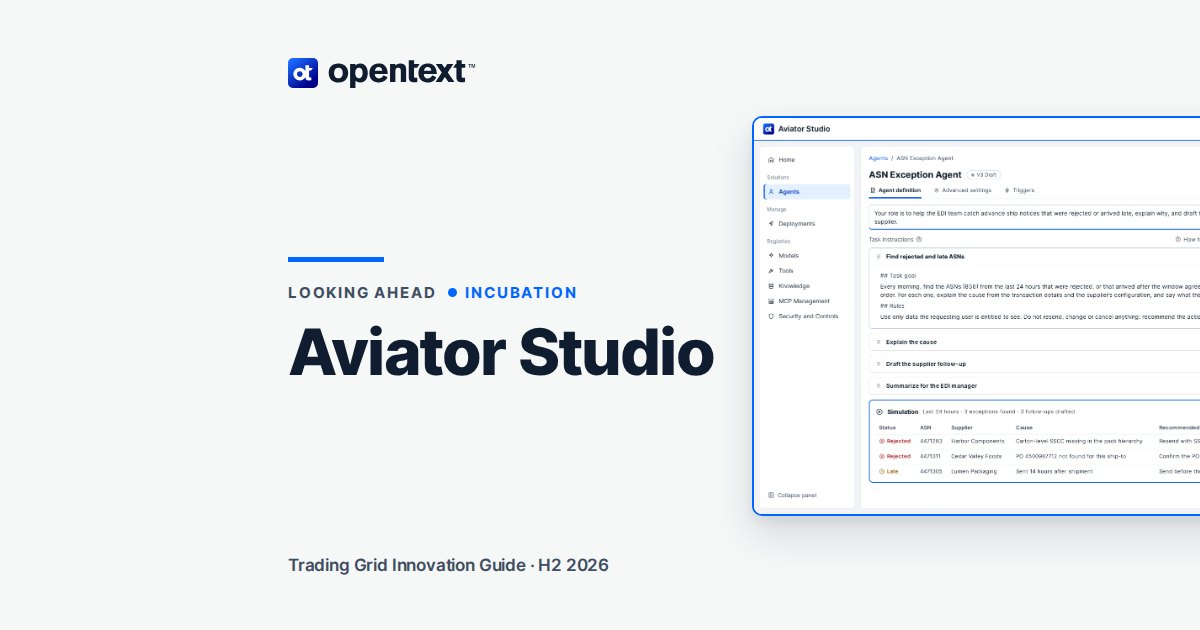
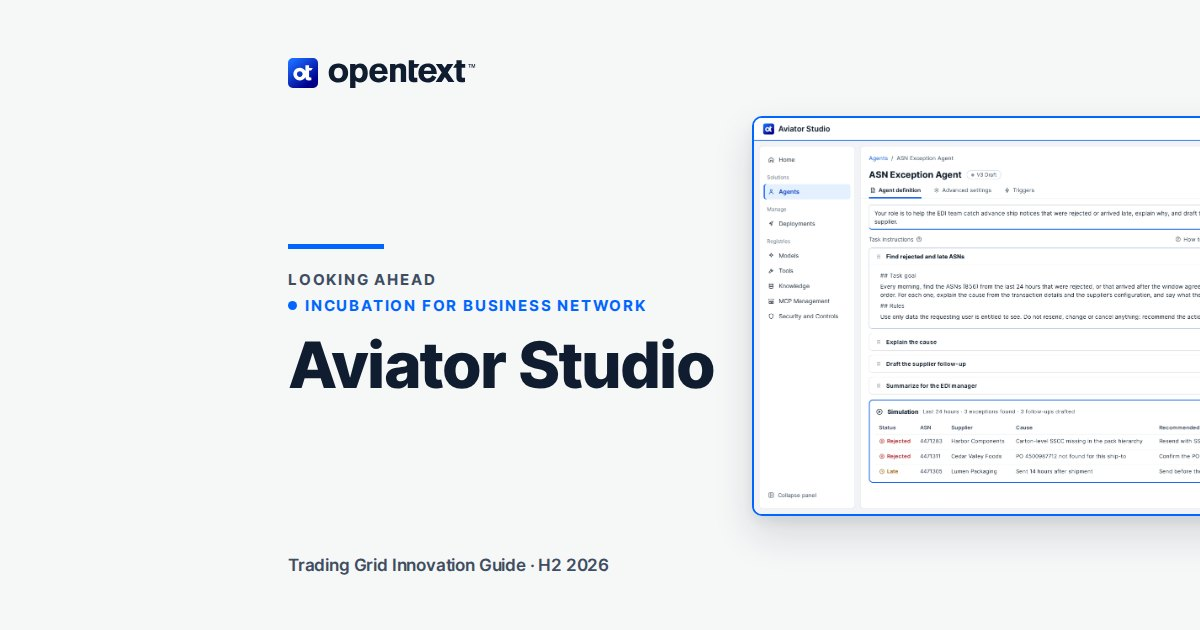
Aviator Studio: Incubation for Business Network; agents for client use cases
Tag and caption read Incubation for Business Network. Examples heading becomes
Agents for client use cases with a line on building agents per client use case,
supported by context from Trading Grid. Share card stage line wraps as whole phrases.

Claude-Session: https://claude.ai/code/session_01CjBSvrUCiaFKGcGZvPXhBa

Changed region(s): [[0.2158, 0.3619, 0.6167, 0.6333]]

diff --git a/site/index.html b/site/index.html
@@ -4234,17 +4234,17 @@ footer .ftop svg{flex:none}
 <article class="inn pv" id="pv-avstudio">
   <div class="hd">
     <div class="label lbl">OpenText Aviator Studio</div>
-    <div class="ttl"><h3>Aviator Studio</h3><span class="ga pv">Incubation</span></div>
+    <div class="ttl"><h3>Aviator Studio</h3><span class="ga pv">Incubation for Business Network</span></div>
     <p class="deck">Build, test and govern AI agents that work on your Trading Grid data, using no-code or pro-code tools.</p>
   </div>
   <figure>
-    <button type="button" class="zoom" data-src="img/2026-h2/avstudio-concept.webp" aria-label="View full size: Concept screen, in incubation: an ASN exception agent in Aviator Studio, with plain-language instructions, Trading Grid tools and a simulation that waits for approval. Partner names are invented."><img src="img/2026-h2/avstudio-concept.webp" width="3344" height="1882" loading="lazy" alt="Concept screen of Aviator Studio with an ASN Exception Agent in draft. The role is to help the EDI team catch advance ship notices that were rejected or arrived late, explain why, and draft the follow-up to each supplier. Task instructions: find rejected and late ASNs from the last 24 hours using only data the user is entitled to see, and recommend actions without resending or changing anything; then explain the cause, draft the supplier follow-up and summarize for the EDI manager. Resources: inputs for time window and trading partners, a supplier routing guide, tools Trading Grid Data Explorer and Trading Grid Context Services over MCP and a built-in email draft, and outputs for exceptions, supplier follow-up and recommended action. A simulation of the last 24 hours found three exceptions, two rejected for a missing carton-level SSCC and an unknown PO, one late, each with a recommended action, waiting for review and approval."><span class="zi"><svg width="16" height="16" viewBox="0 0 16 16" aria-hidden="true" focusable="false"><path d="M9.5 2.5h4v4M13.5 2.5 9 7M6.5 13.5h-4v-4M2.5 13.5 7 9" fill="none" stroke="currentColor" stroke-width="1.5" stroke-linecap="round" stroke-linejoin="round"/></svg></span></button>
-    <figcaption><span class="cap">Concept screen, in incubation: an ASN exception agent in Aviator Studio, with plain-language instructions, Trading Grid tools and a simulation that waits for approval. Partner names are invented.</span> <button type="button" class="vfs" tabindex="-1" aria-hidden="true">View full size</button></figcaption>
+    <button type="button" class="zoom" data-src="img/2026-h2/avstudio-concept.webp" aria-label="View full size: Concept screen, in incubation for Business Network: an ASN exception agent in Aviator Studio, with plain-language instructions, Trading Grid tools and a simulation that waits for approval. Partner names are invented."><img src="img/2026-h2/avstudio-concept.webp" width="3344" height="1882" loading="lazy" alt="Concept screen of Aviator Studio with an ASN Exception Agent in draft. The role is to help the EDI team catch advance ship notices that were rejected or arrived late, explain why, and draft the follow-up to each supplier. Task instructions: find rejected and late ASNs from the last 24 hours using only data the user is entitled to see, and recommend actions without resending or changing anything; then explain the cause, draft the supplier follow-up and summarize for the EDI manager. Resources: inputs for time window and trading partners, a supplier routing guide, tools Trading Grid Data Explorer and Trading Grid Context Services over MCP and a built-in email draft, and outputs for exceptions, supplier follow-up and recommended action. A simulation of the last 24 hours found three exceptions, two rejected for a missing carton-level SSCC and an unknown PO, one late, each with a recommended action, waiting for review and approval."><span class="zi"><svg width="16" height="16" viewBox="0 0 16 16" aria-hidden="true" focusable="false"><path d="M9.5 2.5h4v4M13.5 2.5 9 7M6.5 13.5h-4v-4M2.5 13.5 7 9" fill="none" stroke="currentColor" stroke-width="1.5" stroke-linecap="round" stroke-linejoin="round"/></svg></span></button>
+    <figcaption><span class="cap">Concept screen, in incubation for Business Network: an ASN exception agent in Aviator Studio, with plain-language instructions, Trading Grid tools and a simulation that waits for approval. Partner names are invented.</span> <button type="button" class="vfs" tabindex="-1" aria-hidden="true">View full size</button></figcaption>
   </figure>
   <div class="txt">
     <p>Aviator Studio is OpenText’s no-code and pro-code platform for building, testing, governing and connecting AI agents. For Business Network clients, it is where their own teams will create agents that work on their Trading Grid data, alongside the agents OpenText delivers in Trading Grid Aviator.</p>
     <ul><li><b>Describe the job in plain language:</b> business experts, such as EDI managers and supply chain and integration analysts, set out what an agent does and which rules it follows, without writing code; developers can extend the same agents in code.</li><li><b>Ground agents in Trading Grid data:</b> agents call Trading Grid Data Platform data products through Data Explorer’s governed MCP endpoints, and Trading Grid Context Services for partner, configuration and exchange evidence.</li><li><b>Test before going live:</b> run an agent against recent cases and check its findings and reasoning before it is deployed.</li><li><b>People stay in control:</b> agents investigate, explain, recommend and draft; a person approves any Trading Grid action, such as resending a document or opening a support ticket.</li><li><b>Governed by entitlements:</b> agents see only what the client’s users are entitled to see, guardrails and policies apply to every run, and each run is tracked by version, with the tools it used and what it returned.</li><li><b>Use agents where people already work:</b> the same agents can be called from the AI assistants clients already use, through open protocols such as MCP and A2A.</li></ul>
-    <p><b>Agents Business Network clients could build</b></p>
+    <p><b>Agents for client use cases</b></p><p>We can build agents to fit each client’s use cases, supported by context from Trading Grid. For example:</p>
     <ul><li><b>ASN exception agent:</b> finds rejected or late ASNs, explains the cause and drafts the follow-up to each supplier.</li><li><b>Partner onboarding readiness agent:</b> checks a new partner’s test results and configuration before go-live.</li><li><b>Trading partner health summary:</b> a daily summary for the EDI manager of partners with rising errors or missing acknowledgments.</li></ul>
   </div>
 </article>

diff --git a/site/s/aviator-studio/index.html b/site/s/aviator-studio/index.html
@@ -1,4 +1,4 @@
-<!doctype html><html lang="en"><head><meta charset="utf-8"><meta name="viewport" content="width=device-width,initial-scale=1"><!--fav--><link rel="icon" href="/img/favicon/favicon.ico" sizes="any"><link rel="icon" href="/img/favicon/ot-mark.svg" type="image/svg+xml"><link rel="apple-touch-icon" href="/img/favicon/apple-touch-icon.png"><!--/fav--><title>OpenText Aviator Studio · Trading Grid Innovation Guide H2 2026</title><meta name="description" content="Looking ahead, Incubation. Build, test and govern AI agents that work on your Trading Grid data, using no-code or pro-code tools."><meta property="og:type" content="website"><meta property="og:site_name" content="Trading Grid Innovation Guide"><meta property="og:title" content="OpenText Aviator Studio · Trading Grid Innovation Guide H2 2026"><meta property="og:description" content="Looking ahead, Incubation. Build, test and govern AI agents that work on your Trading Grid data, using no-code or pro-code tools."><meta property="og:url" content="https://tg-innovation-guide.onrender.com/s/aviator-studio/"><meta property="og:image" content="https://tg-innovation-guide.onrender.com/share/aviator-studio.jpg?v=e1e34184"><meta property="og:image:type" content="image/jpeg"><meta property="og:image:width" content="1200"><meta property="og:image:height" content="630"><meta property="og:image:alt" content="OpenText Aviator Studio, in the Trading Grid Innovation Guide H2 2026"><meta name="twitter:card" content="summary_large_image"><meta name="twitter:title" content="OpenText Aviator Studio · Trading Grid Innovation Guide H2 2026"><meta name="twitter:description" content="Looking ahead, Incubation. Build, test and govern AI agents that work on your Trading Grid data, using no-code or pro-code tools."><meta name="twitter:image" content="https://tg-innovation-guide.onrender.com/share/aviator-studio.jpg?v=e1e34184"><meta name="robots" content="noindex">
+<!doctype html><html lang="en"><head><meta charset="utf-8"><meta name="viewport" content="width=device-width,initial-scale=1"><!--fav--><link rel="icon" href="/img/favicon/favicon.ico" sizes="any"><link rel="icon" href="/img/favicon/ot-mark.svg" type="image/svg+xml"><link rel="apple-touch-icon" href="/img/favicon/apple-touch-icon.png"><!--/fav--><title>OpenText Aviator Studio · Trading Grid Innovation Guide H2 2026</title><meta name="description" content="Looking ahead, Incubation for Business Network. Build, test and govern AI agents that work on your Trading Grid data, using no-code or pro-code tools."><meta property="og:type" content="website"><meta property="og:site_name" content="Trading Grid Innovation Guide"><meta property="og:title" content="OpenText Aviator Studio · Trading Grid Innovation Guide H2 2026"><meta property="og:description" content="Looking ahead, Incubation for Business Network. Build, test and govern AI agents that work on your Trading Grid data, using no-code or pro-code tools."><meta property="og:url" content="https://tg-innovation-guide.onrender.com/s/aviator-studio/"><meta property="og:image" content="https://tg-innovation-guide.onrender.com/share/aviator-studio.jpg?v=90697fbd"><meta property="og:image:type" content="image/jpeg"><meta property="og:image:width" content="1200"><meta property="og:image:height" content="630"><meta property="og:image:alt" content="OpenText Aviator Studio, in the Trading Grid Innovation Guide H2 2026"><meta name="twitter:card" content="summary_large_image"><meta name="twitter:title" content="OpenText Aviator Studio · Trading Grid Innovation Guide H2 2026"><meta name="twitter:description" content="Looking ahead, Incubation for Business Network. Build, test and govern AI agents that work on your Trading Grid data, using no-code or pro-code tools."><meta name="twitter:image" content="https://tg-innovation-guide.onrender.com/share/aviator-studio.jpg?v=90697fbd"><meta name="robots" content="noindex">
 <script>(function(){var u=navigator.userAgent||"";if(/bot|crawler|spider|facebookexternalhit|Facebot|Twitterbot|LinkedInBot|WhatsApp|Slackbot|TelegramBot|Discordbot|SkypeUriPreview|MicrosoftPreview|Iframely|Embedly|redditbot|Pinterest|Applebot/i.test(u))return;var h=location.hash&&location.hash.length>1?location.hash:"#pv-avstudio";location.replace("/"+h);})();</script>
 <style>body{margin:0;padding:48px 24px;font:400 16px/24px Inter,-apple-system,"Segoe UI",Arial,sans-serif;color:#3F4D62;background:#fff}a{color:#0066FF;font-weight:700}</style></head>
 <body><p>Opening <a href="/#pv-avstudio">OpenText Aviator Studio</a> in the Trading Grid Innovation Guide H2 2026.</p></body></html>
